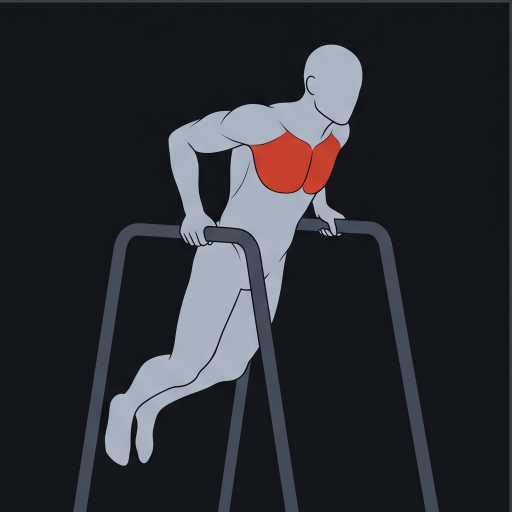
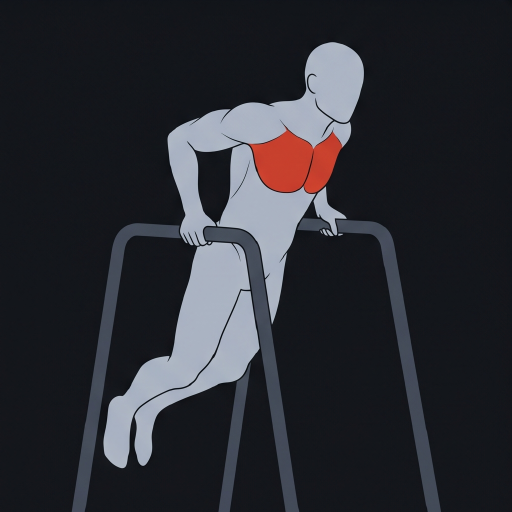
Add twelve more drawings and trim the divider Gemini draws between cells.

diff --git a/exercise-prompts.md b/exercise-prompts.md
@@ -4,7 +4,7 @@
 key has no image quota. Companion to `exercise-art.md`, which explains where the
 files go and why they exist; this file is just the commands.
 
-**8 done, 95 to go — 24 sheets.** Four exercises per image, sliced apart
+**20 done, 83 to go — 21 sheets.** Four exercises per image, sliced apart
 afterwards. A 2048px sheet gives 1024px cells against a 512px target, so nothing
 is lost to the grid, and it is four times fewer requests.
 
@@ -57,177 +57,162 @@ exercise, send its one line with "Draw this one alone, as a single square image.
 
 ---
 
-## Already done — 8
+## Already done — 20
 
-`bench-press-barbell.png` · `bench-press-dumbbell.png` ·
-`incline-bench-press-barbell.png` · `incline-bench-press-dumbbell.png` ·
-`iso-lateral-chest-press-machine.png` · `chest-fly-machine.png` ·
-`chest-dip.png` · `push-up.png`
+**Chest, all 12.** `bench-press-barbell` · `bench-press-dumbbell` ·
+`incline-bench-press-barbell` · `incline-bench-press-dumbbell` ·
+`incline-chest-press-machine` · `iso-lateral-chest-press-machine` ·
+`chest-fly-machine` · `fly-cable` · `fly-crossovers-cable` ·
+`low-fly-crossovers-cable` · `chest-dip` · `push-up`
+
+**Back, 8 of 19.** `pull-up` · `chin-up` · `lat-pulldown` ·
+`lat-pulldown-close-grip-cable` · `reverse-grip-lat-pulldown-cable` ·
+`single-arm-lat-pulldown` · `straight-arm-lat-pulldown-cable` ·
+`straight-arm-pulldown-rope`
 
 ---
 
-## Sheet 1 — chest
-
-> Top-left: **Incline Chest Press (Machine)** — highlight the upper pectorals. Include a seated incline chest press machine with two handles and a back pad.
-> Top-right: **Fly (Cable)** — highlight the pectorals. Include two cable stations with high pulleys, one handle in each hand, arms sweeping together in front of the chest.
-> Bottom-left: **Fly Crossovers (Cable)** — highlight the pectorals. Include two high cable pulleys, with the hands crossed over one another at the bottom.
-> Bottom-right: **Low Fly Crossovers (Cable)** — highlight the pectorals. Include two low cable pulleys near the floor, arms sweeping upward and together.
-
-## Sheet 2 — back
-
-> Top-left: **Pull-Up** — highlight the latissimus dorsi. Include an overhead bar, overhand grip, body hanging.
-> Top-right: **Chin-Up** — highlight the latissimus dorsi and biceps. Include an overhead bar, underhand grip.
-> Bottom-left: **Lat Pulldown** — highlight the latissimus dorsi. Include a lat pulldown machine with a wide bar overhead and a thigh pad.
-> Bottom-right: **Lat Pulldown - Close Grip (Cable)** — highlight the latissimus dorsi. Include a pulldown machine with a close-grip V handle, hands together.
-
-## Sheet 3 — back
-
-> Top-left: **Reverse Grip Lat Pulldown (Cable)** — highlight the latissimus dorsi. Include a pulldown machine with a straight bar held underhand.
-> Top-right: **Single Arm Lat Pulldown** — highlight the latissimus dorsi. Include a cable station with one single handle, pulled with one arm only.
-> Bottom-left: **Straight Arm Lat Pulldown (Cable)** — highlight the latissimus dorsi. Include a high cable with a straight bar, arms locked straight, sweeping down to the thighs.
-> Bottom-right: **Straight Arm Pulldown (Rope)** — highlight the latissimus dorsi. Include a high cable with a rope attachment, arms straight, the two rope ends pulled apart at the thighs.
-
-## Sheet 4 — back
+## Sheet 1 — back
 
 > Top-left: **Bent Over Row (Barbell)** — highlight the rhomboids and mid-back. Include a barbell, torso hinged near parallel to the floor.
 > Top-right: **Pendlay Row** — highlight the latissimus dorsi. Include a barbell and the floor it rests on between reps, back flat and horizontal.
 > Bottom-left: **Row (Dumbbell)** — highlight the latissimus dorsi. Include one dumbbell, with one knee and one hand braced on a flat bench.
 > Bottom-right: **Row (T Bar)** — highlight the rhomboids and mid-back. Include a landmine-mounted barbell with plates on the end and a V handle.
 
-## Sheet 5 — back
+## Sheet 2 — back
 
 > Top-left: **Seated Row (Cable)** — highlight the latissimus dorsi. Include a seated cable row machine with a footplate and a low pulley.
 > Top-right: **Seated Row - Bar Wide Grip (Cable)** — highlight the latissimus dorsi. Include a seated cable row machine with a wide straight bar, hands set wide apart.
 > Bottom-left: **Seated Cable Row - V Grip (Cable)** — highlight the latissimus dorsi. Include a seated cable row machine with a close V handle.
 > Bottom-right: **Seated Row (Machine)** — highlight the latissimus dorsi. Include a seated row machine with a chest pad and two handles.
 
-## Sheet 6 — back, then legs
+## Sheet 3 — back, then legs
 
 > Top-left: **Iso-Lateral Row (Machine)** — highlight the latissimus dorsi. Include a plate-loaded row machine with two independent handles and a chest pad.
 > Top-right: **Iso-Lateral Low Row** — highlight the latissimus dorsi. Include a plate-loaded low row machine with a chest pad, handles pulled low toward the hips.
 > Bottom-left: **Deadlift** — highlight the erector spinae and hamstrings. Include a loaded barbell lifted from the floor, hips hinged, back flat.
 > Bottom-right: **Squat (Barbell)** — highlight the quadriceps. Include a barbell across the upper back and a squat rack behind, at the bottom of the squat.
 
-## Sheet 7 — legs
+## Sheet 4 — legs
 
 > Top-left: **Front Squat** — highlight the quadriceps. Include a barbell racked across the front deltoids with the elbows driven high.
 > Top-right: **Goblet Squat** — highlight the quadriceps. Include a single dumbbell held vertically against the chest with both hands.
 > Bottom-left: **Hack Squat (Machine)** — highlight the quadriceps. Include an angled hack squat machine with shoulder pads and a footplate.
 > Bottom-right: **Bulgarian Split Squat** — highlight the quadriceps. Include a bench with the rear foot elevated on it, and a dumbbell in each hand.
 
-## Sheet 8 — legs
+## Sheet 5 — legs
 
 > Top-left: **Assisted Pistol Squats** — highlight the quadriceps. Include a support strap or upright post held for balance, one leg extended straight forward.
 > Top-right: **Lunge (Barbell)** — highlight the quadriceps. Include a barbell across the upper back, in a deep forward lunge.
 > Bottom-left: **Reverse Lunge (Barbell)** — highlight the quadriceps. Include a barbell across the upper back, stepping backward into the lunge.
 > Bottom-right: **Walking Lunge** — highlight the quadriceps. Include a dumbbell in each hand, mid-stride in a forward lunge.
 
-## Sheet 9 — legs
+## Sheet 6 — legs
 
 > Top-left: **Leg Press** — highlight the quadriceps. Include a 45-degree leg press machine with a loaded sled and footplate.
 > Top-right: **Leg Press Horizontal (Machine)** — highlight the quadriceps. Include a seated horizontal leg press machine with a back pad and footplate.
 > Bottom-left: **Leg Extension** — highlight the quadriceps. Include a seated leg extension machine with an ankle pad, legs straightening.
 > Bottom-right: **Lying Leg Curl** — highlight the hamstrings. Include a lying leg curl machine, face down, ankle pad curled toward the glutes.
 
-## Sheet 10 — legs
+## Sheet 7 — legs
 
 > Top-left: **Seated Leg Curl** — highlight the hamstrings. Include a seated leg curl machine with a thigh pad and an ankle pad.
 > Top-right: **Romanian Deadlift** — highlight the hamstrings. Include a barbell held at arm's length, hips pushed back, knees only slightly bent.
 > Bottom-left: **Sumo Deadlift** — highlight the hamstrings and glutes. Include a loaded barbell, a wide stance, hands gripping inside the knees.
 > Bottom-right: **Hip Adduction (Machine)** — highlight the adductors on the inner thigh. Include a seated adduction machine with pads against the inner thighs, legs squeezing together.
 
-## Sheet 11 — shoulders
+## Sheet 8 — shoulders
 
 > Top-left: **Overhead Press** — highlight the deltoids. Include a barbell pressed overhead while standing.
 > Top-right: **Seated Overhead Press (Barbell)** — highlight the deltoids. Include a barbell and an upright bench with a back pad.
 > Bottom-left: **Seated Shoulder Press (Dumbbell)** — highlight the deltoids. Include two dumbbells pressed overhead on an upright bench.
 > Bottom-right: **Seated Shoulder Press (Machine)** — highlight the deltoids. Include a seated shoulder press machine with two overhead handles.
 
-## Sheet 12 — shoulders
+## Sheet 9 — shoulders
 
 > Top-left: **Shoulder Press (Machine Plates)** — highlight the deltoids. Include a plate-loaded shoulder press machine with weight plates visible on the horns.
 > Top-right: **Arnold Press (Dumbbell)** — highlight the deltoids. Include two dumbbells mid-press with the wrists rotating outward.
 > Bottom-left: **Landmine Press** — highlight the deltoids. Include a barbell anchored in a landmine at floor level, pressed forward and up with one arm.
 > Bottom-right: **Lateral Raise** — highlight the deltoids. Include two dumbbells raised out to the sides to shoulder height.
 
-## Sheet 13 — shoulders
+## Sheet 10 — shoulders
 
 > Top-left: **Seated Lateral Raise** — highlight the deltoids. Include two dumbbells raised to the sides, seated upright on a bench.
 > Top-right: **Rear Delt Fly** — highlight the rear deltoids. Include two dumbbells with the torso hinged forward and the arms sweeping wide.
 > Bottom-left: **Rear Delt Reverse Fly (Machine)** — highlight the rear deltoids. Include a reverse pec deck machine, chest against the pad, arms sweeping backward.
 > Bottom-right: **Face Pull** — highlight the rear deltoids. Include a high cable with a rope pulled toward the face, elbows high and wide.
 
-## Sheet 14 — shoulders, then arms
+## Sheet 11 — shoulders, then arms
 
 > Top-left: **Shrug** — highlight the trapezius. Include a barbell held at arm's length in front of the thighs, shoulders lifted straight up.
 > Top-right: **Curl (Barbell)** — highlight the biceps. Include a barbell curled to chest height while standing.
 > Bottom-left: **21s Bicep Curl** — highlight the biceps. Include a barbell stopped halfway through the curl, at the mid-range position.
 > Bottom-right: **Biceps Curl (EZ Bar)** — highlight the biceps. Include an EZ curl bar with its distinctive zigzag shape clearly visible.
 
-## Sheet 15 — arms
+## Sheet 12 — arms
 
 > Top-left: **Bicep Curl (Dumbbell)** — highlight the biceps. Include two dumbbells curled with palms facing up.
 > Top-right: **Hammer Curl** — highlight the biceps. Include two dumbbells held in a neutral grip, thumbs up, curled to the shoulders.
 > Bottom-left: **Concentration Curl** — highlight the biceps. Include one dumbbell, seated on a bench with the elbow braced against the inner thigh.
 > Bottom-right: **Preacher Curl** — highlight the biceps. Include a preacher bench with an angled arm pad and an EZ curl bar.
 
-## Sheet 16 — arms
+## Sheet 13 — arms
 
 > Top-left: **Seated Incline Curl (Dumbbell)** — highlight the biceps. Include two dumbbells and a reclined incline bench, arms hanging behind the body.
 > Top-right: **Curl (Cable)** — highlight the biceps. Include a low cable pulley with a straight bar attachment.
 > Bottom-left: **Behind the Back Curl (Cable)** — highlight the biceps. Include a low cable running behind the body, curled with one arm.
 > Bottom-right: **Reverse Curl (Barbell)** — highlight the biceps and forearms. Include a barbell held with an overhand grip, knuckles up.
 
-## Sheet 17 — arms
+## Sheet 14 — arms
 
 > Top-left: **Behind the Back Bicep Wrist Curl (Barbell)** — highlight the forearms. Include a barbell held behind the back at hip level, curled with the wrists only.
 > Top-right: **Triceps Pushdown** — highlight the triceps. Include a high cable with a straight bar pressed down to the thighs, elbows pinned to the sides.
 > Bottom-left: **Triceps Pushdown (Rope)** — highlight the triceps. Include a high cable with a rope attachment, the two ends pulled apart at the bottom.
 > Bottom-right: **Triceps Kickback (Cable)** — highlight the triceps. Include a low cable with a single handle, torso hinged forward, elbow held high.
 
-## Sheet 18 — arms
+## Sheet 15 — arms
 
 > Top-left: **Triceps Extension (Dumbbell)** — highlight the triceps. Include a dumbbell held overhead with both hands and lowered behind the head.
 > Top-right: **Single Arm Tricep Extension (Dumbbell)** — highlight the triceps. Include one dumbbell held overhead in a single hand, lowered behind the head.
 > Bottom-left: **Skullcrusher** — highlight the triceps. Include an EZ curl bar lowered toward the forehead while lying on a flat bench.
 > Bottom-right: **Close-Grip Bench Press** — highlight the triceps. Include a barbell gripped narrow, hands close together, on a flat bench.
 
-## Sheet 19 — arms, then core
+## Sheet 16 — arms, then core
 
 > Top-left: **Triceps Dip (Weighted)** — highlight the triceps. Include parallel dip bars and a weight plate hanging from a belt, torso upright.
 > Top-right: **Seated Dip (Machine)** — highlight the triceps. Include a seated dip machine with handles at the sides and a back pad.
 > Bottom-left: **Plank** — highlight the abdominals. No equipment — forearms on the floor, body held in one straight line.
 > Bottom-right: **Ab Wheel Rollout** — highlight the abdominals. Include an ab wheel, kneeling, extended forward near the floor.
 
-## Sheet 20 — core
+## Sheet 17 — core
 
 > Top-left: **Crunch (Cable)** — highlight the abdominals. Include a high cable with a rope held beside the head, kneeling, spine curled forward.
 > Top-right: **Decline Sit Up** — highlight the abdominals. Include a decline bench with foot rollers, torso curling upward.
 > Bottom-left: **Hanging Leg Raise** — highlight the abdominals. Include an overhead bar with the body hanging and the legs raised to horizontal.
 > Bottom-right: **Leg Raise Parallel Bars (Weighted)** — highlight the abdominals. Include a captain's chair with parallel arm pads and a back rest, legs raised, a weight held between the feet.
 
-## Sheet 21 — core, then glutes
+## Sheet 18 — core, then glutes
 
 > Top-left: **Russian Twist** — highlight the obliques. Include a weight plate held at the chest, seated on the floor, torso rotated to one side, feet lifted.
 > Top-right: **Hip Thrust** — highlight the glutes. Include a barbell across the hips with the upper back braced against a flat bench.
 > Bottom-left: **Glute Kickback (Machine)** — highlight the glutes. Include a glute kickback machine with a footplate, one leg driving backward.
 > Bottom-right: **Pull Through (Cable)** — highlight the glutes. Include a low cable with a rope passed between the legs, hips hinged then driven forward.
 
-## Sheet 22 — glutes and lower back
+## Sheet 19 — glutes and lower back
 
 > Top-left: **Swing (Kettlebell)** — highlight the glutes and hamstrings. Include a kettlebell swung forward to chest height on straight arms.
 > Top-right: **Hip Abduction (Machine)** — highlight the gluteus medius on the outer hip. Include a seated abduction machine with pads against the outer thighs, knees pressing apart.
 > Bottom-left: **Back Extension** — highlight the erector spinae. Include a 45-degree back extension bench with hip and ankle pads.
 > Bottom-right: **Standing Calf Raise** — highlight the calves. Include a standing calf raise machine with shoulder pads and a raised footplate, heels dropped below the toes.
 
-## Sheet 23 — calves
+## Sheet 20 — calves
 
 > Top-left: **Seated Calf Raise** — highlight the calves. Include a seated calf raise machine with pads across the thighs and the toes on a block.
 > Top-right: **Calf Extension (Machine)** — highlight the calves. Include a calf machine with a footplate, rising onto the toes.
 > Bottom-left: **Calf Press (Machine)** — highlight the calves. Include a leg press sled with only the toes on the bottom edge of the footplate, legs straight.
 > Bottom-right: **Single Leg Standing Calf Raise (Dumbbell)** — highlight the calves. Include one dumbbell held at the side, one foot on a raised step, the other leg lifted.
 
-## Sheet 24 — cardio (three only)
+## Sheet 21 — cardio (three only)
 
 Send this one as a **3 × 1 horizontal strip**, not a 2 × 2, and say so — there is
 no fourth exercise and an empty quadrant tends to get filled with an invention.
@@ -253,6 +238,10 @@ node tools/art.mjs single <image.png> <slug>
 
 Slugs are given without the `.png`. Nothing is written outside
 `docs/img/exercises/`.
+
+Gemini draws a light rule between the quadrants whatever the prompt says — it has
+been 8px, 10px, 12px and 20px across four sheets so far. The slicer measures it
+per sheet and trims it, so there is no need to keep asking for no dividers.
 
 ---
 
